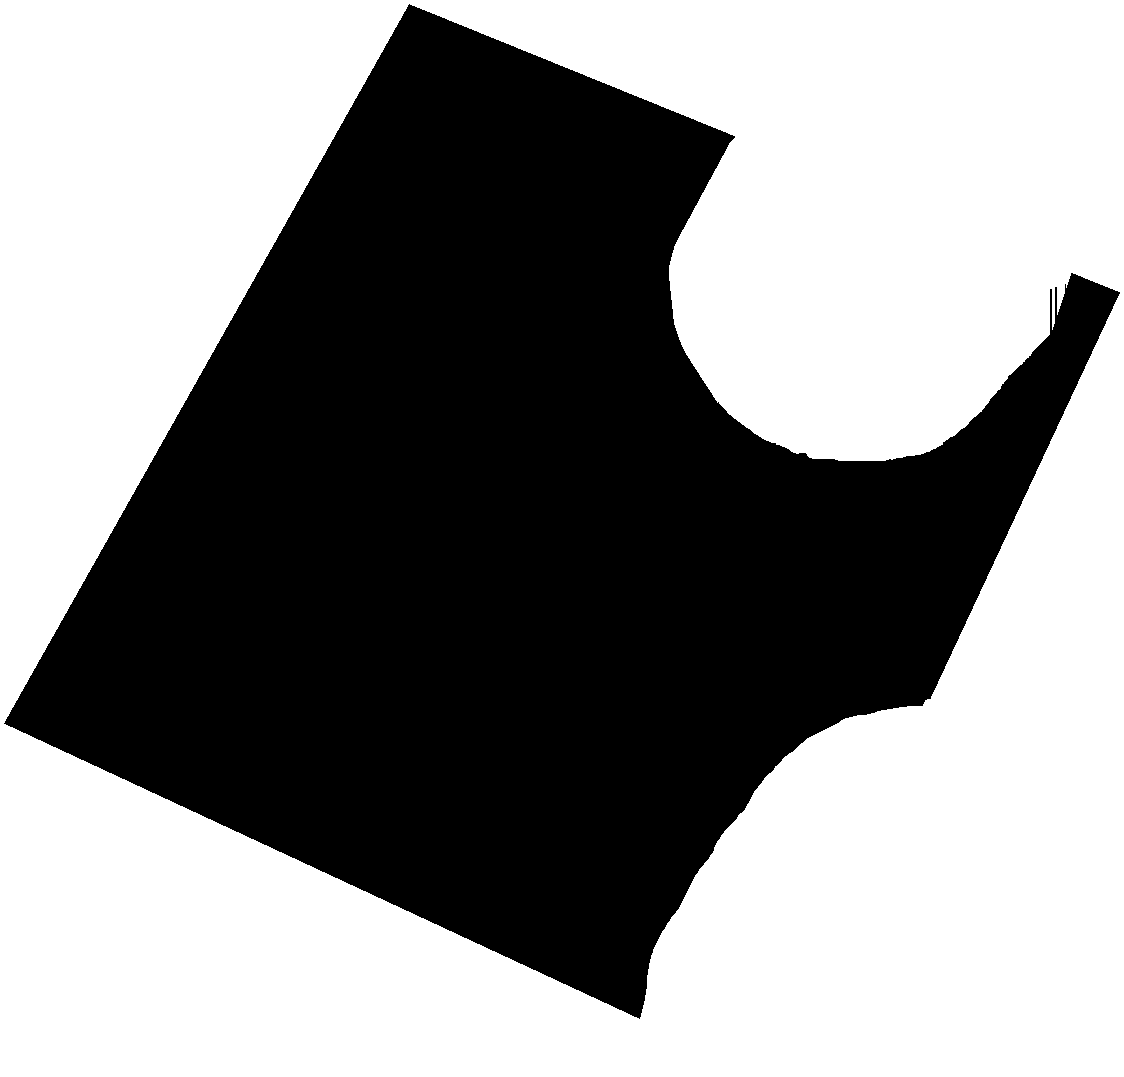
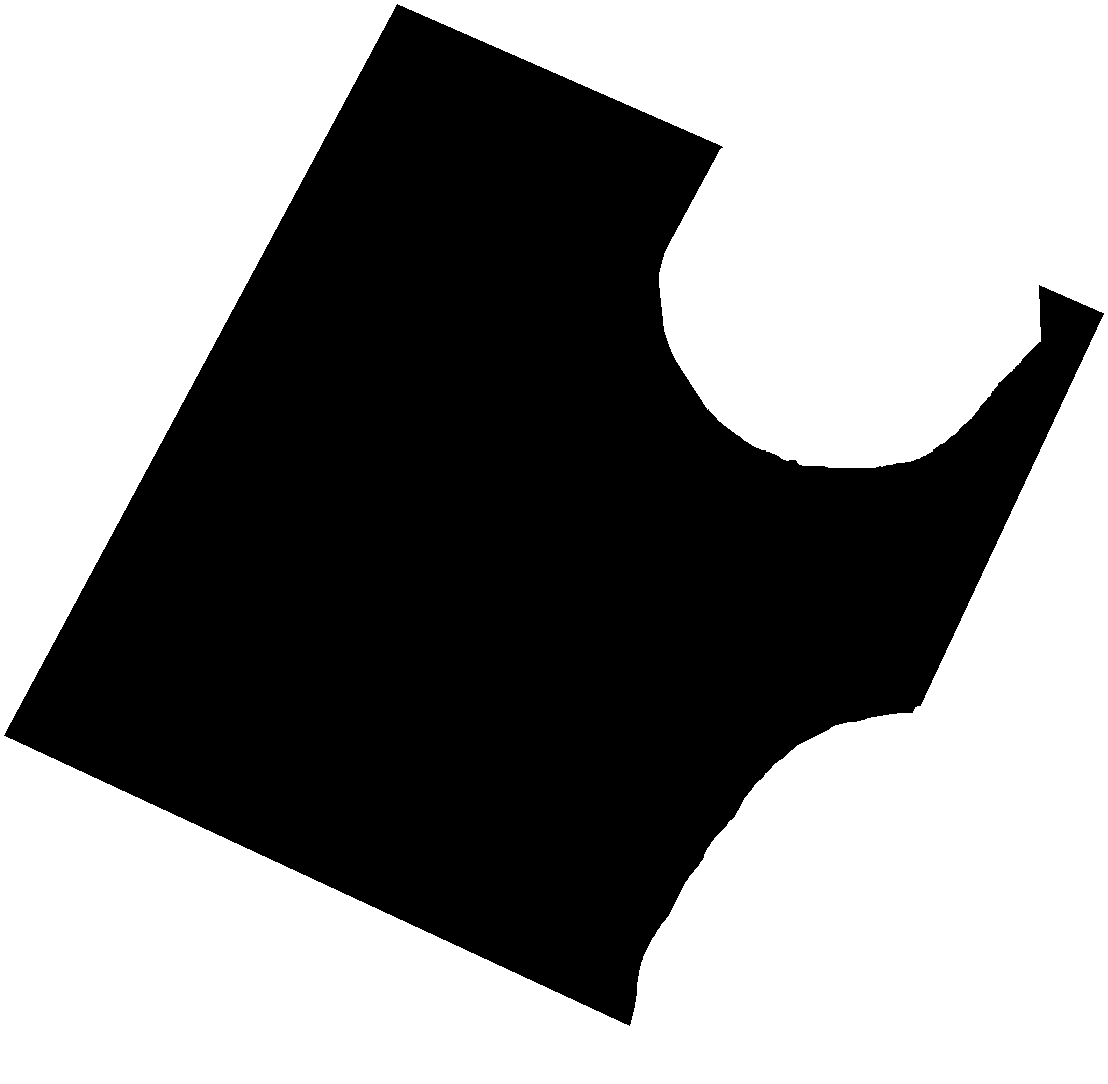
Hero: the right loose sheet's top and left edges fitted to the paper
The printed lines on the right sheet sloped more shallowly than the
paper's top edge. Its eyeballed top edge ran at 22.1 degrees and the
paper's at about 24. The top and left edges are now fitted where they
show, by the steepest fall in brightness along their normals (within
1.5px). The paper's top edge bows, so the fit follows its left stretch
over Thursday. The mask is remade from the new corners.

diff --git a/src/app/landing/video/sheets.ts b/src/app/landing/video/sheets.ts
@@ -53,13 +53,17 @@ export const SHEETS: Record<SheetId, Sheet> = {
     box: [270, 1020, 1061, 1140],
   },
   right: {
+    // Its top and left edges fitted to the paper too, where they show
+    // (2026-10-07): the eyeballed top edge ran 2 degrees shallower than the
+    // paper's, and the printed lines under it with it. The paper's top edge
+    // bows; this follows its left stretch, over Thursday.
     corners: [
-      [3026, 680],
-      [3736.8, 968.8],
+      [3024.7, 673.6],
+      [3730.5, 982.4],
       [3372.2, 1748.7],
-      [2621.9, 1399.9],
+      [2631.3, 1404.3],
     ],
-    box: [2617, 676, 1124, 1077],
+    box: [2627, 669, 1108, 1084],
   },
 };
 
